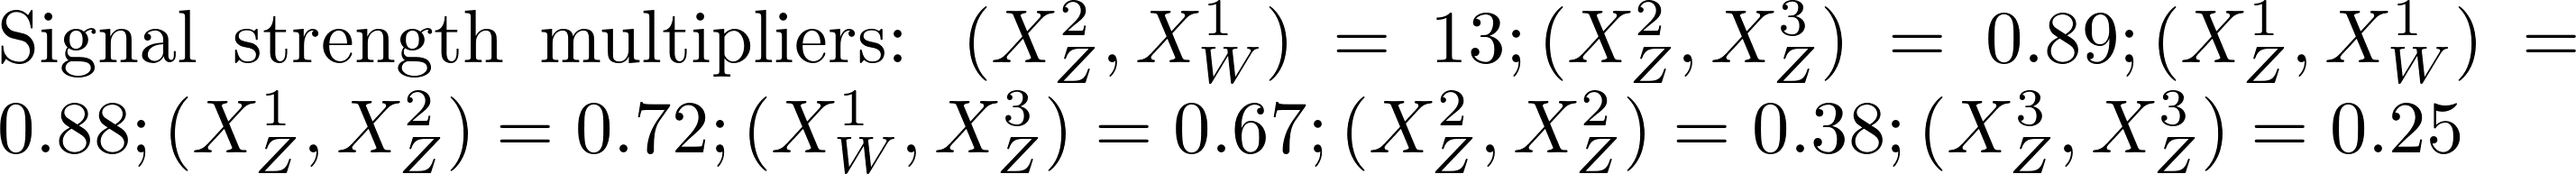
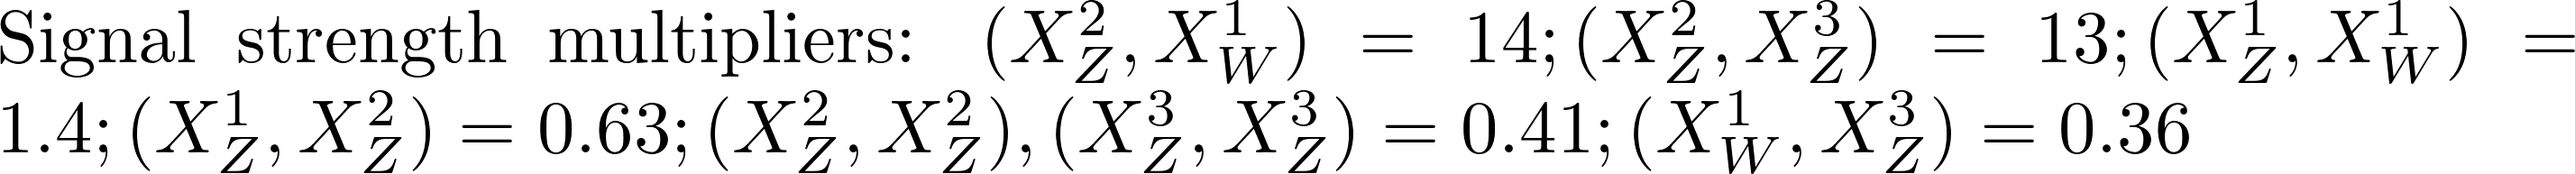
automated update by plotHiscore.py to rundir8_310:     K=25.975 TL=34.20 walkerid=uphi

Changed region(s): [[0.0, 0.5285, 0.966, 0.9948], [0.0, 0.0, 0.966, 0.4974], [0.0, 0.0622, 0.0312, 0.1244]]

diff --git a/protomodels/rundir8_310/index.html b/protomodels/rundir8_310/index.html
@@ -1,24 +1,28 @@
 <html>
 <body>
 <center>
-<table><td><h1>Current best protomodel: <i>K</i>=None, <i>TL</i>=34.17</h1><td><img height=60px src=https://smodels.github.io//protomodels/logos/protomodel_lego.png></table>
+<table><td><h1>Current best protomodel: <i>K</i>=25.97, <i>TL</i>=34.20</h1><td><img height=60px src=https://smodels.github.io//protomodels/logos/protomodel_lego.png></table>
 </center>
-<b><a href=./hiscore.slha>ProtoModel</a> <a href=./pmodel.dict>(dict)</a> produced with <a href=https://smodels.github.io//docs/Validation310>database v3.1.0</a>, combination strategy <a href=./matrix.png>aggressive</a> in walker uphi step 1203.</b> <br>
+<b><a href=./hiscore.slha>ProtoModel</a> <a href=./pmodel.dict>(dict)</a> produced with <a href=https://smodels.github.io//docs/Validation311>database v3.1.1</a>, combination strategy <a href=./matrix.png>aggressive</a> in walker uphi step 883.</b> <br>
 <table width=80%>
 <tr><td>
 <br><b>Critics:</b> passed both critics<br>
-<br><b>LLHD Critic:</b> CMS-EXO-20-004:combined, ATLAS-EXOT-2018-06:EM8, CMS-SUS-20-004:combined:: <span style='color: darkgreen;'>robs=1.0, rexp=3.29</span><br>
-<br><b>4 predictions available. Highest r values are:</b><br><ul>
-<li><a href=https://atlas.web.cern.ch/Atlas/GROUPS/PHYSICS/PAPERS/EXOT-2018-06/>ATLAS-EXOT-2018-06</a>:EM8:TChiZISRqq,TChiWISRll,TChiISR r=1.64, r<sub>exp</sub>=1.78<br>
-<li><a href=http://cms-results.web.cern.ch/cms-results/public-results/publications/SUS-20-004/>CMS-SUS-20-004</a>:ul:TChiHH r=0.48, r<sub>exp</sub>=0.96<br>
-<li><a href=http://cms-results.web.cern.ch/cms-results/public-results/publications/EXO-20-004/>CMS-EXO-20-004</a>:SR_2018_16:TChiZISRqq,TChiWISRll,TChiISR r=0.30, r<sub>exp</sub>=0.49<br>
-<li><a href=https://atlas.web.cern.ch/Atlas/GROUPS/PHYSICS/PAPERS/SUSY-2018-41/>ATLAS-SUSY-2018-41</a>:SR-2B2Q-Vh:TChiHH r=0.01, r<sub>exp</sub>=0.01<br>
+<br><b>UL Critic:</b>
+ATLAS-EXOT-2018-06:EM8:: <span style='color: darkred;'>robs=1.505, rexp=1.629</span><br>
+ATLAS-SUSY-2018-16-hino:SR_ewk_2l_high:: <span style='color: darkred;'>robs=1.098, rexp=1.04</span><br>
+CMS-SUS-16-048:Ewkino_highMET_M_10to20:: <span style='color: darkred;'>robs=1.055, rexp=0.889</span><br>
+<br><b>LLHD Critic:</b> CMS-EXO-20-004:combined, ATLAS-EXOT-2018-06:EM8, CMS-SUS-20-004:combined, ATLAS-SUSY-2018-16-hino:SR_ewk_2l_high, CMS-SUS-16-048:Ewkino_highMET_M_10to20:: <span style='color: darkred;'>robs=1.14, rexp=3.66</span><br>
+<br><b>6 predictions available. Highest r values are:</b><br><ul>
+<li><a href=https://atlas.web.cern.ch/Atlas/GROUPS/PHYSICS/PAPERS/EXOT-2018-06/>ATLAS-EXOT-2018-06</a>:EM8:TChiZISRqq,TChiISR,TChiZISRll r=1.51, r<sub>exp</sub>=1.63<br>
+<li><a href=https://atlas.web.cern.ch/Atlas/GROUPS/PHYSICS/PAPERS/SUSY-2018-16/>ATLAS-SUSY-2018-16-hino</a>:SR_ewk_2l_high:TChiZoff r=1.10, r<sub>exp</sub>=1.04<br>
+<li><a href=http://cms-results.web.cern.ch/cms-results/public-results/publications/SUS-16-048/index.html>CMS-SUS-16-048</a>:Ewkino_highMET_M_10to20:TChiWZoff r=1.05, r<sub>exp</sub>=0.89<br>
+<li><a href=http://cms-results.web.cern.ch/cms-results/public-results/publications/SUS-20-004/>CMS-SUS-20-004</a>:ul:TChiHH r=0.61, r<sub>exp</sub>=1.21<br>
 </ul>
-<td><img width=600px src=./texdoc.png?1764507760>
-<br><span style='font-size: smaller; color: darkred;'>Last updated: Sun Nov 30 14:02:40 2025</span>
+<td><img width=600px src=./texdoc.png?1769370525>
+<br><span style='font-size: smaller; color: darkred;'>Last updated: Sun Jan 25 20:48:45 2026</span>
 </table><table style="width:80%">
-<td width=45%><img height=580px src=./ruler.png?1764507760><td width=55%><img height=220px src=./decays.png?1764507760>
-<font size=-3><iframe type="text/html" height="350px" width="100%" frameborder="0" src="./rawnumbers.html?1764507760"></iframe></font>
+<td width=45%><img height=580px src=./ruler.png?1769370525><td width=55%><img height=220px src=./decays.png?1769370525>
+<font size=-3><iframe type="text/html" height="350px" width="100%" frameborder="0" src="./rawnumbers.html?1769370525"></iframe></font>
 </table>
 </body>
 </html>

diff --git a/protomodels/rundir8_310/rawnumbers.html b/protomodels/rundir8_310/rawnumbers.html
@@ -1,8 +1,9 @@
 <table>
 <tr><th>Analysis Name</th><th>Type</th><th>Dataset</th><th>Topos</th><th>Observed</th><th>Expected</th><th>Approx &sigma;</th><th>Particles</th>
 </tr>
-<tr><td><a href=http://cms-results.web.cern.ch/cms-results/public-results/publications/EXO-20-004/>CMS-EXO-20-004</a></td><td>comb</td> <td>-</td><td>TChiISR, TChiWISRll, TChiZISRqq</td><td> 2e+02 fb </td><td> 1e+02 fb</td><td style="text-align:right">4.6 &sigma;</td><td style="text-align:right">X<sup>1</sup><sub>W</sub>, X<sup>1</sup><sub>Z</sub>, X<sup>2</sup><sub>Z</sub></td></tr>
-<tr><td><a href=https://atlas.web.cern.ch/Atlas/GROUPS/PHYSICS/PAPERS/EXOT-2018-06/>ATLAS-EXOT-2018-06</a></td><td>em</td> <td>EM10</td><td>TChiISR, TChiWISRll, TChiZISRqq</td><td>413</td><td>359.00 +/- 10.00</td><td style="text-align:right">2.5 &sigma;</td><td style="text-align:right">X<sup>1</sup><sub>W</sub>, X<sup>1</sup><sub>Z</sub>, X<sup>2</sup><sub>Z</sub></td></tr>
+<tr><td><a href=http://cms-results.web.cern.ch/cms-results/public-results/publications/EXO-20-004/>CMS-EXO-20-004</a></td><td>comb</td> <td>-</td><td>TChiISR, TChiZISRll, TChiZISRqq</td><td> 2e+02 fb </td><td> 1e+02 fb</td><td style="text-align:right">4.6 &sigma;</td><td style="text-align:right">X<sup>1</sup><sub>W</sub>, X<sup>1</sup><sub>Z</sub>, X<sup>2</sup><sub>Z</sub></td></tr>
+<tr><td><a href=https://atlas.web.cern.ch/Atlas/GROUPS/PHYSICS/PAPERS/SUSY-2018-16/>ATLAS-SUSY-2018-16-hino</a></td><td>em</td> <td>SR_ewk_2l_med</td><td>TChiZoff</td><td>170</td><td>112.40 +/- 12.60</td><td style="text-align:right">3.3 &sigma;</td><td style="text-align:right">X<sup>1</sup><sub>Z</sub>, X<sup>2</sup><sub>Z</sub></td></tr>
+<tr><td><a href=https://atlas.web.cern.ch/Atlas/GROUPS/PHYSICS/PAPERS/EXOT-2018-06/>ATLAS-EXOT-2018-06</a></td><td>em</td> <td>EM10</td><td>TChiISR, TChiZISRll, TChiZISRqq</td><td>413</td><td>359.00 +/- 10.00</td><td style="text-align:right">2.4 &sigma;</td><td style="text-align:right">X<sup>1</sup><sub>W</sub>, X<sup>1</sup><sub>Z</sub>, X<sup>2</sup><sub>Z</sub></td></tr>
 <tr><td><a href=http://cms-results.web.cern.ch/cms-results/public-results/publications/SUS-20-004/>CMS-SUS-20-004</a></td><td>comb</td> <td>-</td><td>TChiHH</td><td> 0.3 fb </td><td> 0.2 fb</td><td style="text-align:right">2.2 &sigma;</td><td style="text-align:right">X<sup>3</sup><sub>Z</sub>, X<sup>2</sup><sub>Z</sub></td></tr>
 </table>
 <table style='color:grey'>

diff --git a/protomodels/rundir8_310/upHi.py b/protomodels/rundir8_310/upHi.py
@@ -1,0 +1,13 @@
+#!/usr/bin/env python3
+
+#import os, sys
+#sys.path.insert(0,'/scratch-cbe/users/wolfgan.waltenberger/git')
+#sys.path.insert(0,'/scratch-cbe/users/wolfgan.waltenberger/git/protomodels')
+#sys.path.insert(0,'/scratch-cbe/users/wolfgan.waltenberger/git/protomodels/ptools')
+from ptools import updateHiscores
+from base.runEnviron import RunEnviron
+#batchjob="SLURM_JOBID" in os.environ
+batchjob = False
+environ = RunEnviron()
+updateHiscores.loop ( maxruns=1, createPlots=not batchjob,
+    uploadTo='rundir8_310', environ=environ, walkerid='uphi' )
